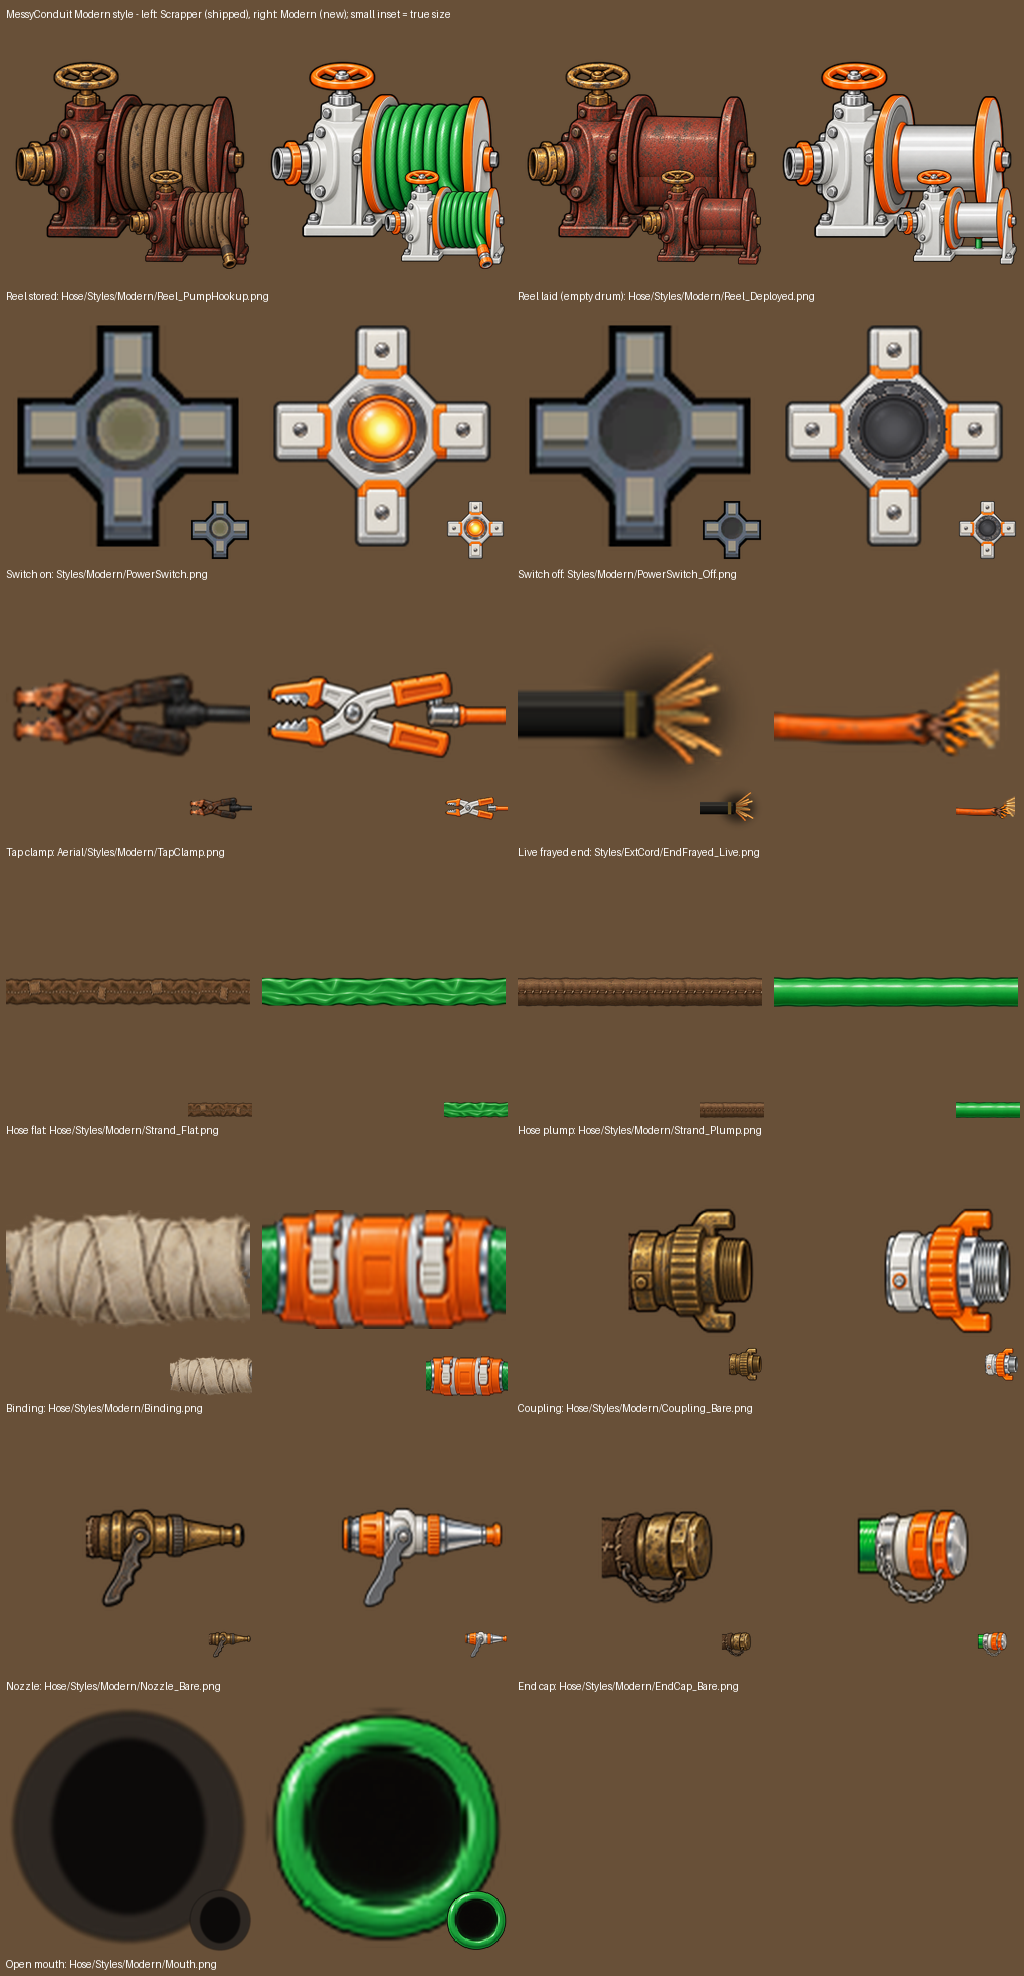
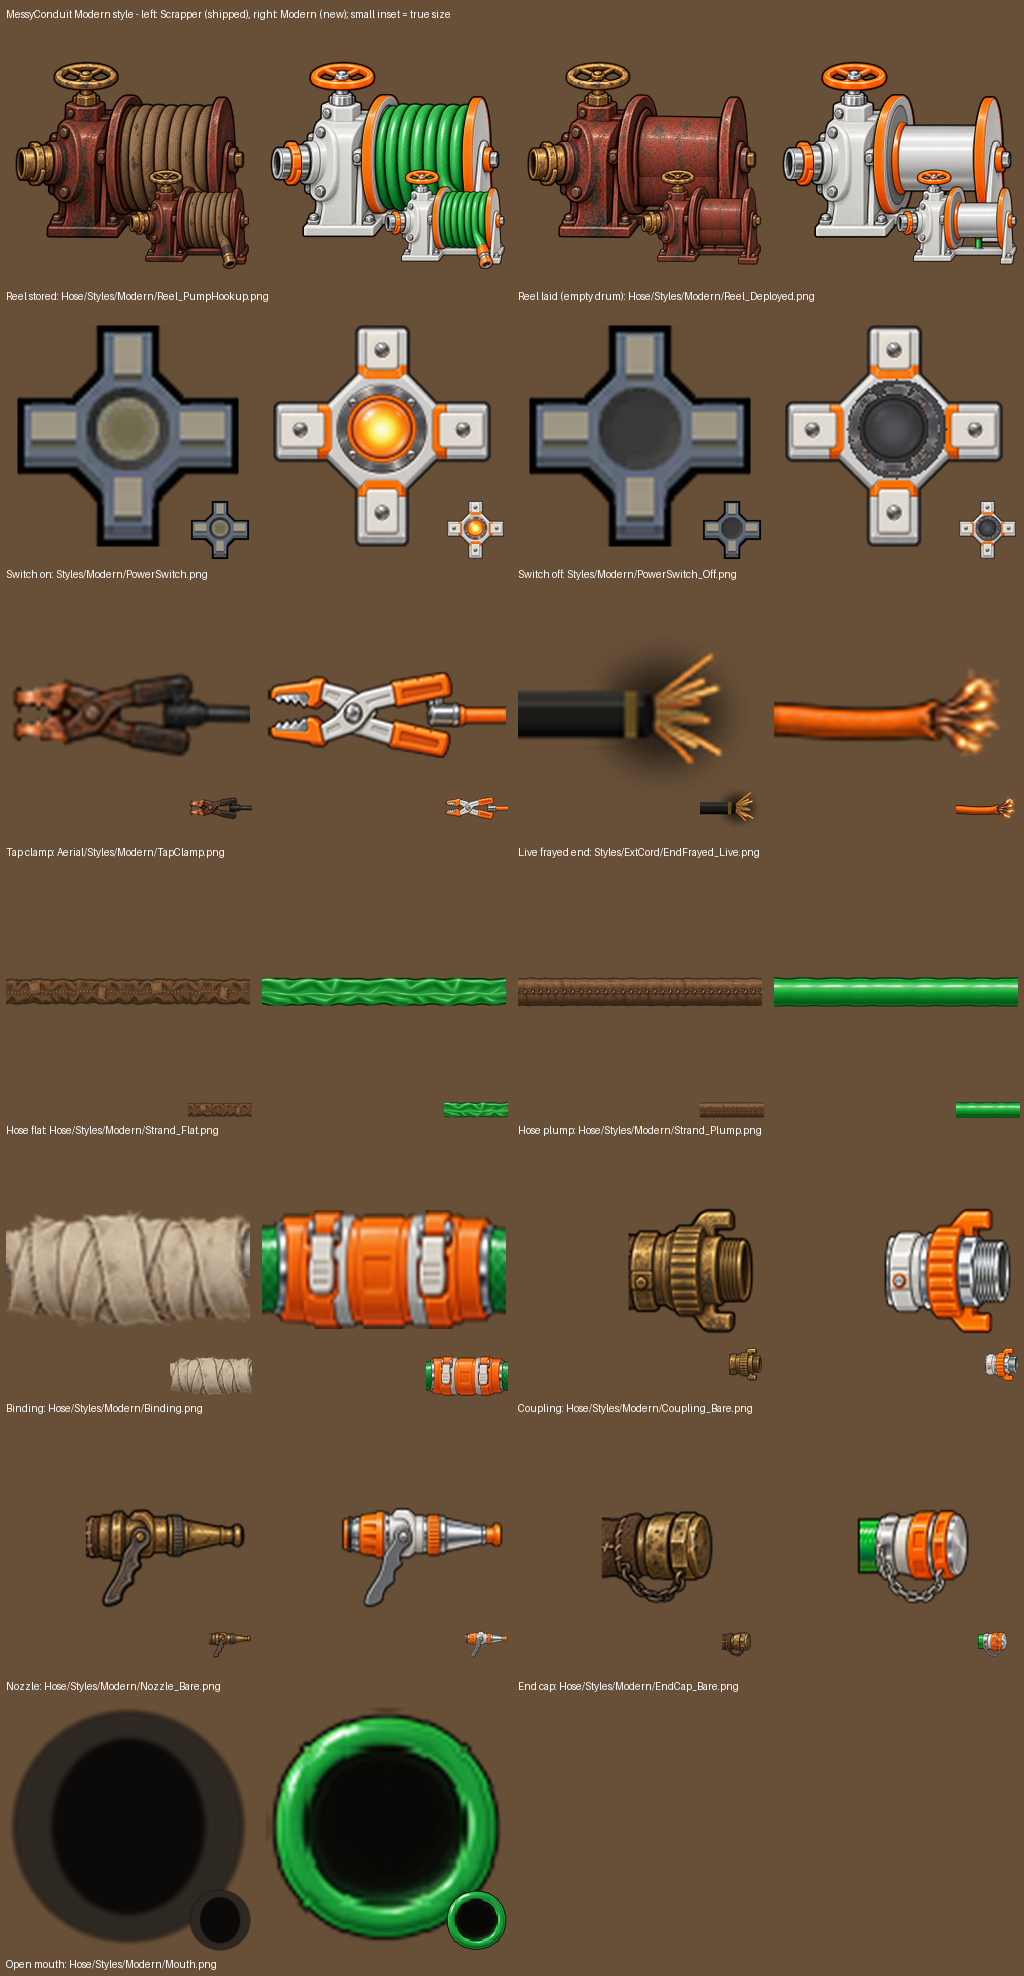
MessyConduit Modern live frayed end: regenerated with hot glowing strands
Claude-Session: https://claude.ai/code/session_01SyS41FU7h5RYcjA5xwj4n2

Changed region(s): [[0.75, 0.3396, 1.0, 0.4322]]

diff --git a/Transient/mc_style_art_report.md b/Transient/mc_style_art_report.md
@@ -79,8 +79,8 @@ already swaps (`Reel_PumpHookup` / `Reel_Deployed`); a coil overlay would be ext
 
 ## Owed / weak
 
-- Weakest piece: **Modern live frayed end** (`Styles/ExtCord/EndFrayed_Live.png`): orange cord fine, but the strands read
-  pale and blurry with no hot glow; a regen is the first redo if the owner agrees.
+- Modern live frayed end was regenerated once more (second render read pale with no glow); the installed third render has
+  hot glowing tips. Still the smallest-reading live end of the three at true size.
 - Scrapper laid reel: not touched (hose round 4 owns `Hose/Reel_Deployed.png`'s pale-strip rework).
 - Coil overlay layer (design sec. 4 two-layer reel): not drawn, see sec. 4.
 - Per-style overhead span wire: optional per the design, not drawn.
